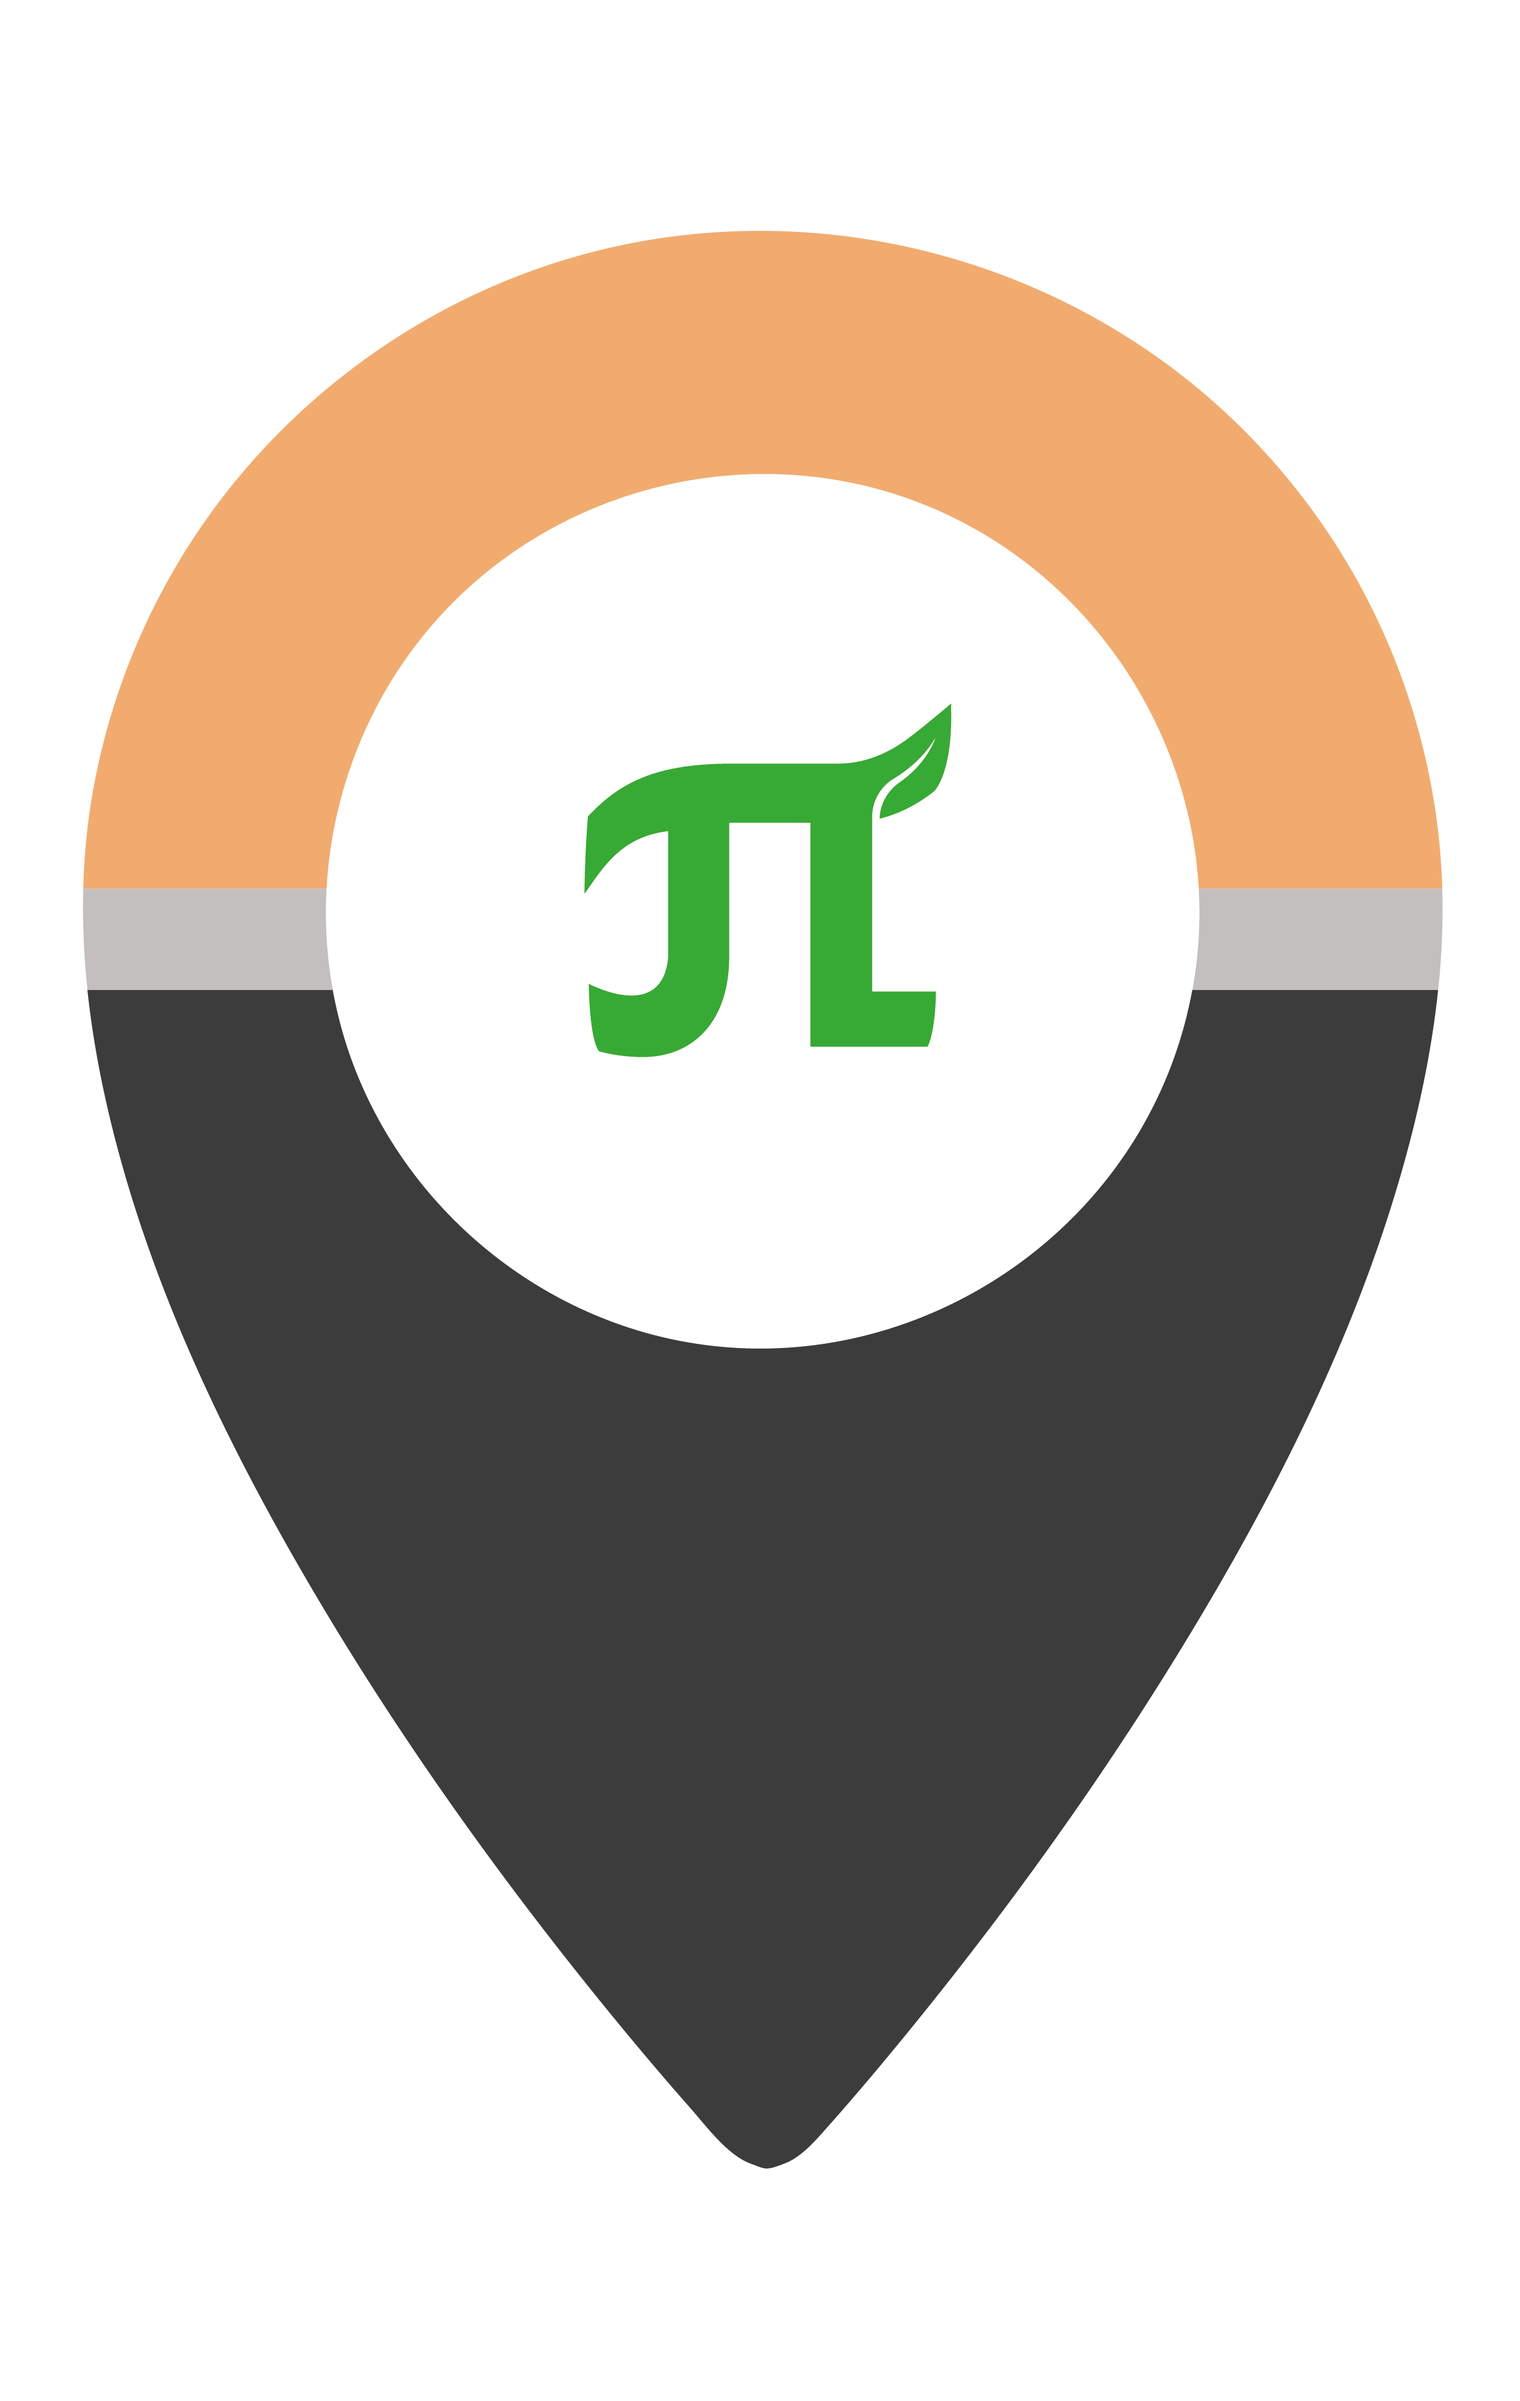
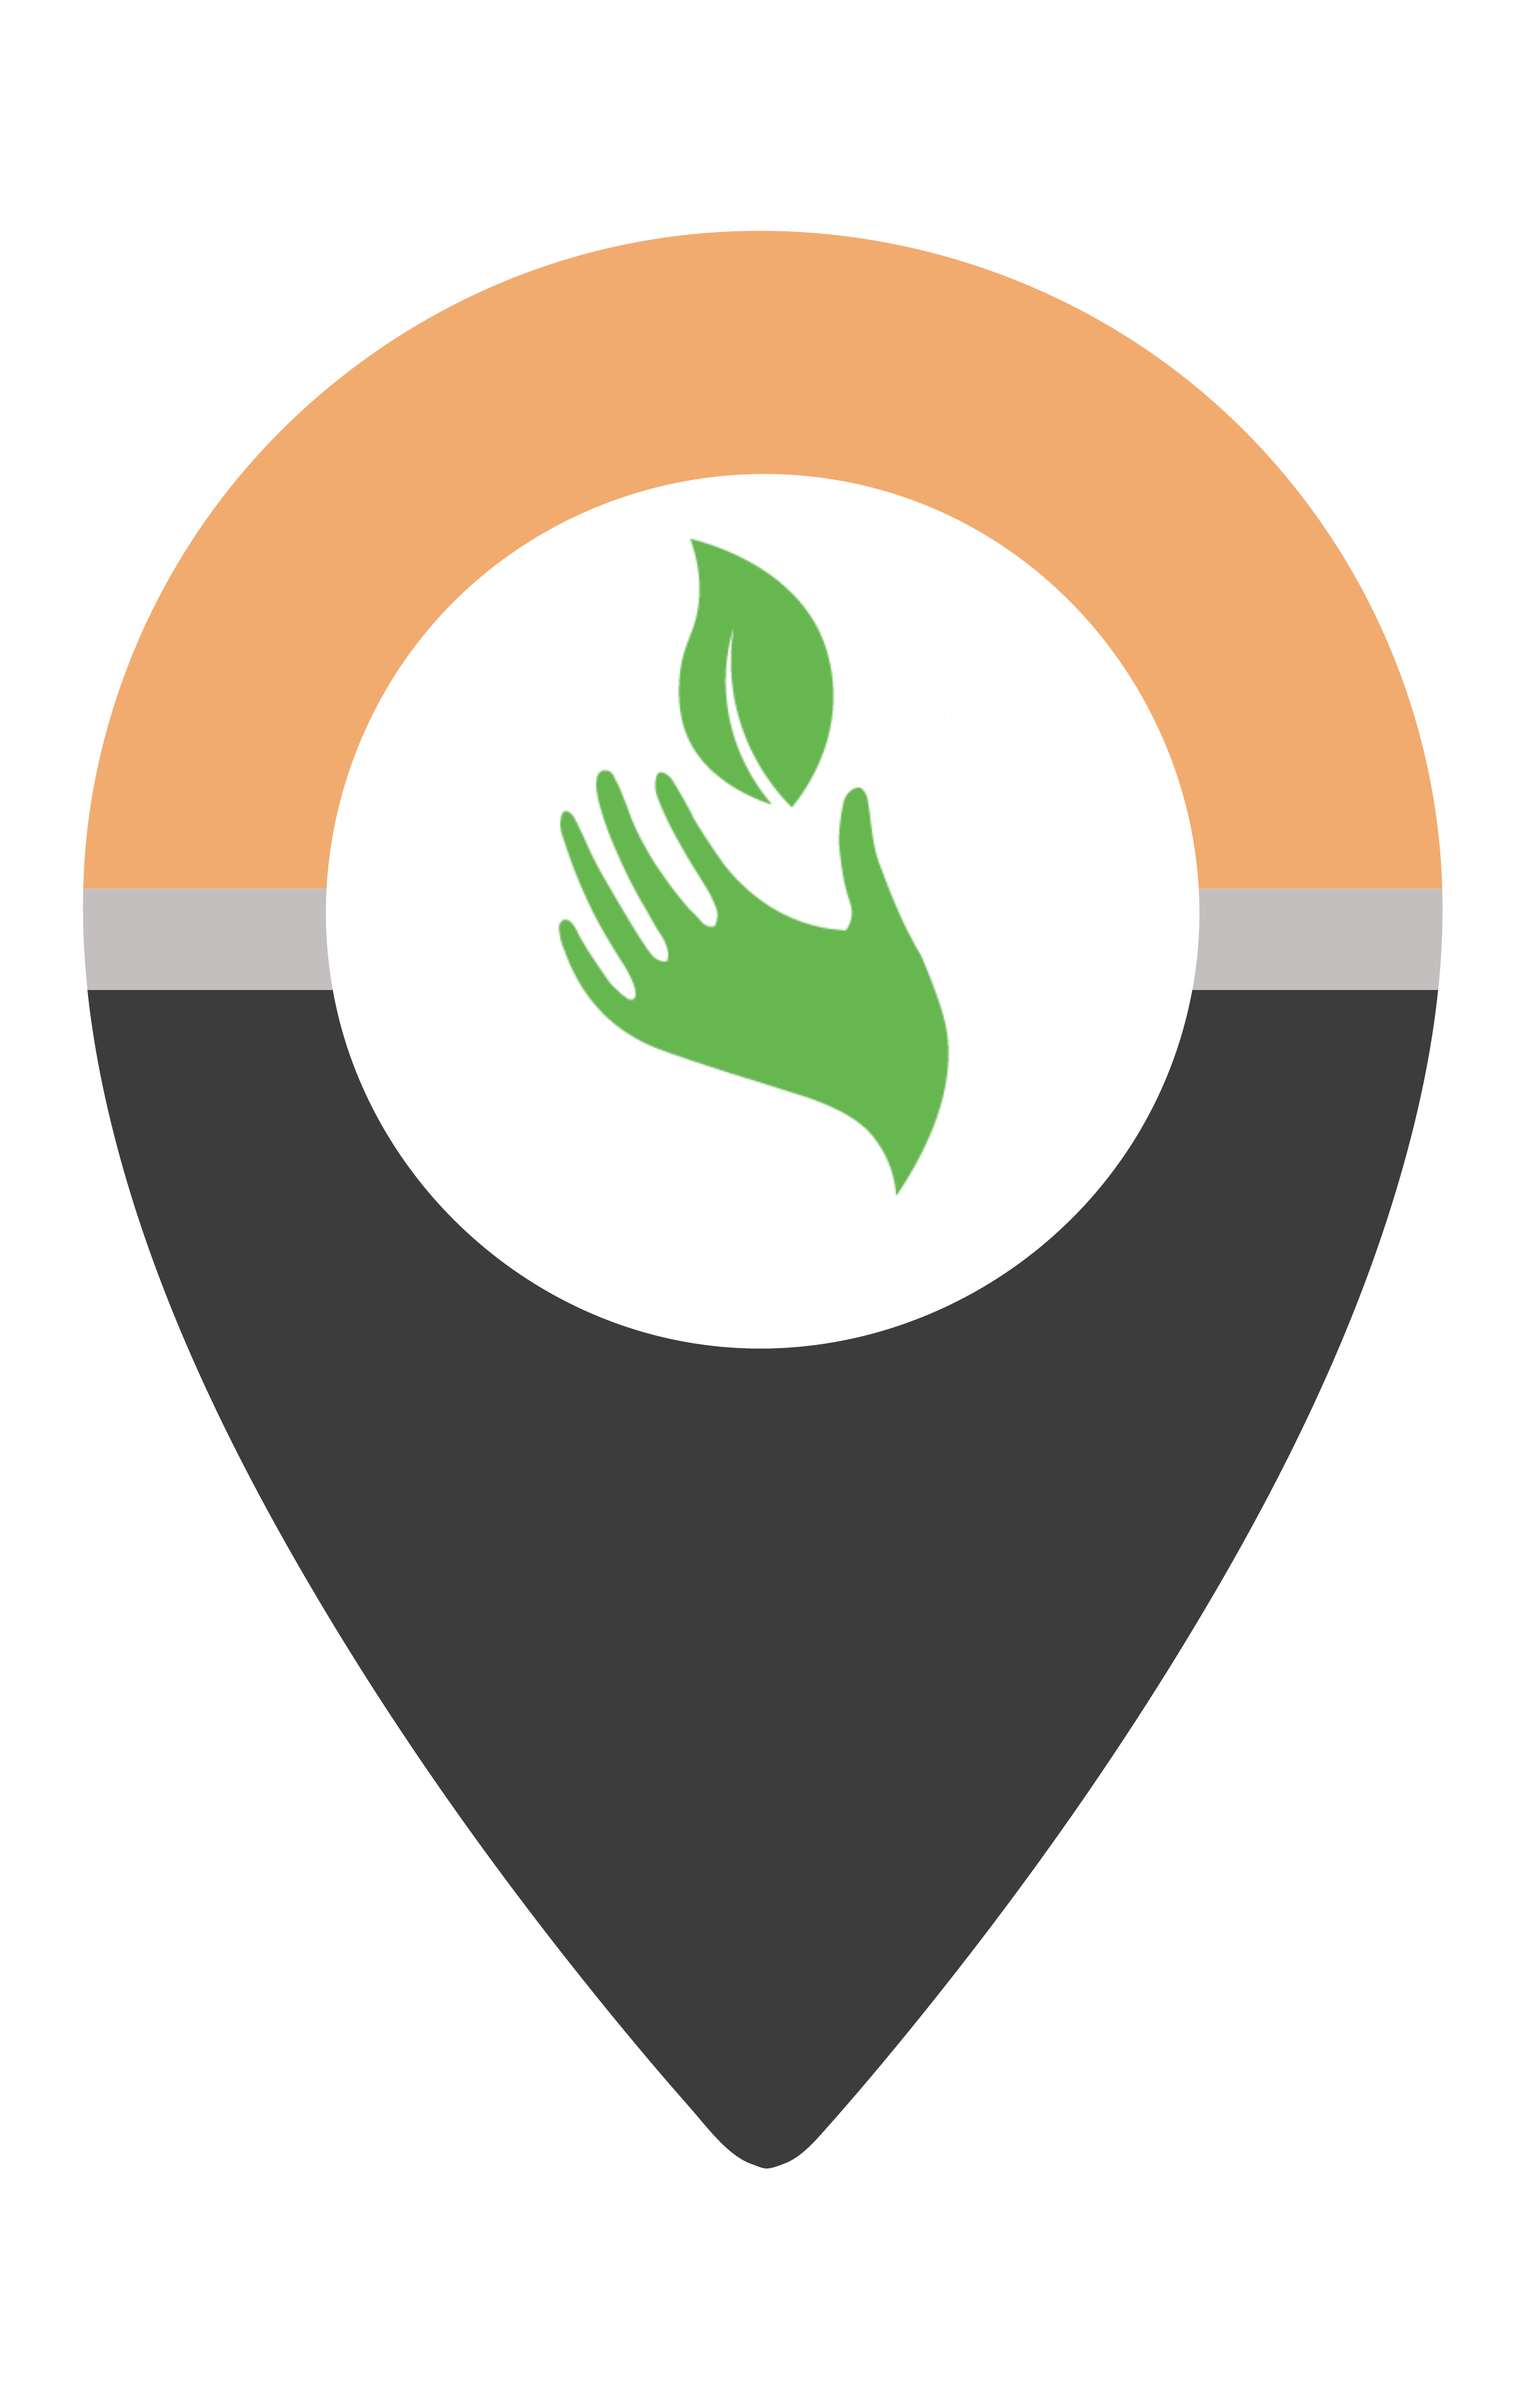
Сообщение на английском, что было доделано

Changed region(s): [[0.3707, 0.2184, 0.6488, 0.4993]]

diff --git a/src/components/YandexMap.js b/src/components/YandexMap.js
@@ -3,7 +3,10 @@ import React, { Component } from 'react'
 import Icon4 from '../img/4.png'
 import Icon2 from '../img/2.png'
 import Icon7 from '../img/7.png'
-
+import Icon8 from '../img/8.png'
+import Icon9 from '../img/9.png'
+import Icon10 from '../img/10.png'
+import Icon22 from '../img/22.png'
 const ZoomByDelta = [
   {
     deltaLessThan: 5,
@@ -60,7 +63,15 @@ const getIcon = icon => {
     case 1:
       return Icon4
     case 2:
-      return Icon7  
+      return Icon7
+    case 3:
+      return Icon8 
+    case 4:
+      return Icon9
+    case 5:
+      return Icon10
+    case 6:
+      return Icon22
     default:
       return Icon2
   }
